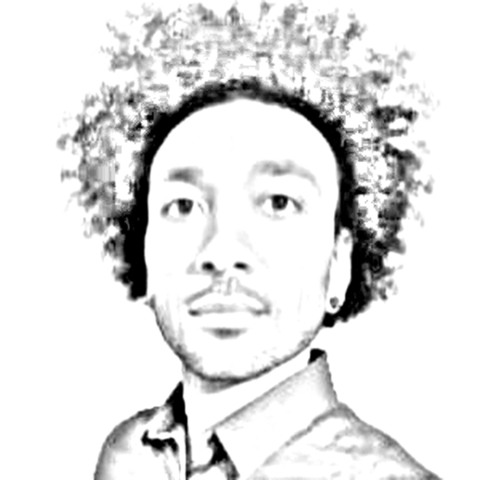
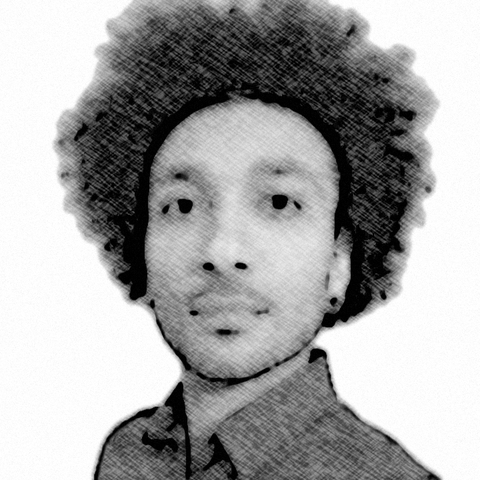
Nouvelles couleurs, couleur personnalisée et portrait fusain
- Palettes encre (noir et blanc, par défaut), taupe, prune, framboise,
  pétrole ; bleu, ambre et rouge retirés des propositions
- Couleur d'accent libre (apparence.accent ou ?accent=), déclinée
  automatiquement en versions claire et sombre
- Portrait crayon refait en style fusain (ombrage et texture)

Claude-Session: https://claude.ai/code/session_01STvJuwfBBkCMacceFkmZyM

diff --git a/index.html b/index.html
@@ -14,7 +14,7 @@
   <script src="i18n.js"></script>
   <script>
     // Applique le thème, la palette et le fond avant le rendu (évite un flash).
-    // Aperçu : ?palette=bleu|ambre|violet|rouge  &fond=grille|degrade|reseau|ondes|particules|aucun
+    // Aperçu : ?palette=encre|taupe|prune|framboise|petrole|violet  &accent=%23rrggbb  &fond=grille|degrade|reseau|ondes|particules|aucun
     //          &avatar=illustration|pochoir|crayon|photo  &theme=light|dark
     (function () {
       const r = document.documentElement;
@@ -23,12 +23,25 @@
       const pick = (k, def) => {
         let v = q.get(k);
         try {
-          if (v) sessionStorage.setItem("apercu-" + k, v);
+          if (q.has(k)) sessionStorage.setItem("apercu-" + k, v);
           else v = sessionStorage.getItem("apercu-" + k);
         } catch (e) {}
         return v || def;
       };
-      r.dataset.palette = pick("palette", a.palette || "bleu");
+      r.dataset.palette = pick("palette", a.palette || "encre");
+      // Couleur personnalisée (#rrggbb) : déclinée en version claire et sombre
+      const acc = pick("accent", a.accent || "");
+      const mt = /^#?([0-9a-f]{2})([0-9a-f]{2})([0-9a-f]{2})$/i.exec(acc);
+      if (mt) {
+        const [R, G, B] = mt.slice(1).map((x) => parseInt(x, 16) / 255);
+        const mx = Math.max(R, G, B), mn = Math.min(R, G, B), L = (mx + mn) / 2, D = mx - mn;
+        const S = D ? D / (1 - Math.abs(2 * L - 1)) : 0;
+        const H = !D ? 0 : mx === R ? ((G - B) / D + 6) % 6 : mx === G ? (B - R) / D + 2 : (R - G) / D + 4;
+        const h = Math.round(H * 60), s = Math.round(S * 100), l = Math.round(L * 100);
+        r.dataset.palette = "perso";
+        r.style.setProperty("--acc-l", `hsl(${h} ${Math.min(s, 85)}% ${Math.min(Math.max(l, 26), 42)}%)`);
+        r.style.setProperty("--acc-d", `hsl(${h} ${Math.min(s, 90)}% ${Math.min(Math.max(l, 62), 76)}%)`);
+      }
       r.dataset.fond = pick("fond", a.fond || "grille");
       r.dataset.avatar = pick("avatar", a.avatar || "photo");
       r.dataset.police = pick("police", a.police || "inter");

diff --git a/rapport-stage.html b/rapport-stage.html
@@ -14,7 +14,7 @@
   <script src="i18n.js"></script>
   <script>
     // Applique le thème, la palette et le fond avant le rendu (évite un flash).
-    // Aperçu : ?palette=bleu|ambre|violet|rouge  &fond=grille|degrade|reseau|ondes|particules|aucun
+    // Aperçu : ?palette=encre|taupe|prune|framboise|petrole|violet  &accent=%23rrggbb  &fond=grille|degrade|reseau|ondes|particules|aucun
     //          &avatar=illustration|pochoir|crayon|photo  &theme=light|dark
     (function () {
       const r = document.documentElement;
@@ -23,12 +23,25 @@
       const pick = (k, def) => {
         let v = q.get(k);
         try {
-          if (v) sessionStorage.setItem("apercu-" + k, v);
+          if (q.has(k)) sessionStorage.setItem("apercu-" + k, v);
           else v = sessionStorage.getItem("apercu-" + k);
         } catch (e) {}
         return v || def;
       };
-      r.dataset.palette = pick("palette", a.palette || "bleu");
+      r.dataset.palette = pick("palette", a.palette || "encre");
+      // Couleur personnalisée (#rrggbb) : déclinée en version claire et sombre
+      const acc = pick("accent", a.accent || "");
+      const mt = /^#?([0-9a-f]{2})([0-9a-f]{2})([0-9a-f]{2})$/i.exec(acc);
+      if (mt) {
+        const [R, G, B] = mt.slice(1).map((x) => parseInt(x, 16) / 255);
+        const mx = Math.max(R, G, B), mn = Math.min(R, G, B), L = (mx + mn) / 2, D = mx - mn;
+        const S = D ? D / (1 - Math.abs(2 * L - 1)) : 0;
+        const H = !D ? 0 : mx === R ? ((G - B) / D + 6) % 6 : mx === G ? (B - R) / D + 2 : (R - G) / D + 4;
+        const h = Math.round(H * 60), s = Math.round(S * 100), l = Math.round(L * 100);
+        r.dataset.palette = "perso";
+        r.style.setProperty("--acc-l", `hsl(${h} ${Math.min(s, 85)}% ${Math.min(Math.max(l, 26), 42)}%)`);
+        r.style.setProperty("--acc-d", `hsl(${h} ${Math.min(s, 90)}% ${Math.min(Math.max(l, 62), 76)}%)`);
+      }
       r.dataset.fond = pick("fond", a.fond || "grille");
       r.dataset.avatar = pick("avatar", a.avatar || "photo");
       r.dataset.police = pick("police", a.police || "inter");

diff --git a/realisation.html b/realisation.html
@@ -14,7 +14,7 @@
   <script src="i18n.js"></script>
   <script>
     // Applique le thème, la palette et le fond avant le rendu (évite un flash).
-    // Aperçu : ?palette=bleu|ambre|violet|rouge  &fond=grille|degrade|reseau|ondes|particules|aucun
+    // Aperçu : ?palette=encre|taupe|prune|framboise|petrole|violet  &accent=%23rrggbb  &fond=grille|degrade|reseau|ondes|particules|aucun
     //          &avatar=illustration|pochoir|crayon|photo  &theme=light|dark
     (function () {
       const r = document.documentElement;
@@ -23,12 +23,25 @@
       const pick = (k, def) => {
         let v = q.get(k);
         try {
-          if (v) sessionStorage.setItem("apercu-" + k, v);
+          if (q.has(k)) sessionStorage.setItem("apercu-" + k, v);
           else v = sessionStorage.getItem("apercu-" + k);
         } catch (e) {}
         return v || def;
       };
-      r.dataset.palette = pick("palette", a.palette || "bleu");
+      r.dataset.palette = pick("palette", a.palette || "encre");
+      // Couleur personnalisée (#rrggbb) : déclinée en version claire et sombre
+      const acc = pick("accent", a.accent || "");
+      const mt = /^#?([0-9a-f]{2})([0-9a-f]{2})([0-9a-f]{2})$/i.exec(acc);
+      if (mt) {
+        const [R, G, B] = mt.slice(1).map((x) => parseInt(x, 16) / 255);
+        const mx = Math.max(R, G, B), mn = Math.min(R, G, B), L = (mx + mn) / 2, D = mx - mn;
+        const S = D ? D / (1 - Math.abs(2 * L - 1)) : 0;
+        const H = !D ? 0 : mx === R ? ((G - B) / D + 6) % 6 : mx === G ? (B - R) / D + 2 : (R - G) / D + 4;
+        const h = Math.round(H * 60), s = Math.round(S * 100), l = Math.round(L * 100);
+        r.dataset.palette = "perso";
+        r.style.setProperty("--acc-l", `hsl(${h} ${Math.min(s, 85)}% ${Math.min(Math.max(l, 26), 42)}%)`);
+        r.style.setProperty("--acc-d", `hsl(${h} ${Math.min(s, 90)}% ${Math.min(Math.max(l, 62), 76)}%)`);
+      }
       r.dataset.fond = pick("fond", a.fond || "grille");
       r.dataset.avatar = pick("avatar", a.avatar || "photo");
       r.dataset.police = pick("police", a.police || "inter");

diff --git a/style.css b/style.css
@@ -23,6 +23,12 @@
 :root[data-palette="ambre"]  { --acc-l: #b45309; --acc-d: #f5a524; --bg-d: #0f0e0c; --surface-d: #181614; --surface2-d: #221f1b; --border-d: #36312a; }
 :root[data-palette="violet"] { --acc-l: #6d28d9; --acc-d: #a78bfa; --bg-d: #0d0b14; --surface-d: #15121f; --surface2-d: #1e1a2b; --border-d: #2f2943; }
 :root[data-palette="rouge"]  { --acc-l: #c81e1e; --acc-d: #f87171; --bg-d: #0c0c0d; --surface-d: #151517; --surface2-d: #1d1d20; --border-d: #2d2d31; }
+:root[data-palette="encre"]  { --acc-l: #18181b; --acc-d: #f4f4f5; --bg-d: #0c0c0d; --surface-d: #151517; --surface2-d: #1e1e21; --border-d: #2e2e33; }
+:root[data-palette="taupe"]  { --acc-l: #6f5d4b; --acc-d: #cdb8a0; --bg-d: #100f0e; --surface-d: #191715; --surface2-d: #22201d; --border-d: #35312c; }
+:root[data-palette="prune"]  { --acc-l: #7e2a63; --acc-d: #e39acb; --bg-d: #110c10; --surface-d: #1a1318; --surface2-d: #241a21; --border-d: #392a34; }
+:root[data-palette="framboise"] { --acc-l: #b0164f; --acc-d: #f47aa6; --bg-d: #110c0e; --surface-d: #1a1316; --surface2-d: #24191e; --border-d: #3a2a31; }
+:root[data-palette="petrole"] { --acc-l: #11656f; --acc-d: #5fc4c9; --bg-d: #0b1011; --surface-d: #121a1b; --surface2-d: #1a2425; --border-d: #283739; }
+:root[data-palette="perso"]  { --bg-d: #0e0f11; --surface-d: #17181b; --surface2-d: #1f2024; --border-d: #2e3035; }
 
 @media (prefers-color-scheme: dark) {
   :root:not([data-theme="light"]) {

diff --git a/content.js b/content.js
@@ -8,14 +8,17 @@
 window.PORTFOLIO = {
   /*
    * APPARENCE
-   *  palette : "bleu" (réseau), "ambre" (régie), "violet", "rouge" (éditorial)
+   *  palette : "encre" (noir & blanc), "taupe", "prune", "framboise", "petrole", "violet"
+   *            (anciennes : "bleu", "ambre", "rouge")
+   *  accent  : une couleur au choix, ex. "#7e2a63" (remplace la palette)
    *  fond    : fond de l'accueil — "grille", "degrade", "reseau", "ondes", "particules" ou "aucun"
    *  avatar  : "illustration", "pochoir", "crayon" (dessins tirés de ta photo) ou "photo"
    *  police  : "inter", "atkinson" (Atkinson Hyperlegible), "lexend" ou "opendyslexic"
    *            (les visiteurs peuvent aussi activer OpenDyslexic avec le bouton « Aa »)
    */
   apparence: {
-    palette: "bleu",
+    palette: "encre",
+    accent: "",
     fond: "grille",
     avatar: "illustration",
     police: "inter",
